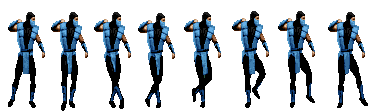
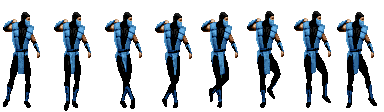
toutes les anims

diff --git a/main1.js b/main1.js
@@ -1,0 +1,210 @@
+let canvas = document.querySelector('canvas');
+let ctx = canvas.getContext('2d');
+
+ctx.imageSmoothingEnabled = false;
+
+let subHurt = new Image();
+subHurt.src = "/src/SubZero/Sub_hurt.png"
+
+let subIdle = new Image();
+subIdle.src = "/src/SubZero/Sub_idle.png";
+
+let subKameha = new Image();
+subKameha.src = "/src/SubZero/Sub_Kameha.png"
+
+let subKick = new Image();
+subKick.src = "/src/SubZero/Sub_kick.png"
+
+let subOneTwo = new Image();
+subOneTwo.src = "/src/SubZero/Sub_OneTwo.png"
+
+let subRun = new Image();
+subRun.src = "/src/SubZero/Sub_Run.png"
+
+let subWalking = new Image();
+subWalking.src = "/src/SubZero/Sub_Walk.png"
+
+
+subHurt.onload = function() {
+  init();
+};
+
+subIdle.onload = function() {
+  init();
+};
+
+subKameha.onload = function() {
+  init();
+};
+
+
+subKick.onload = function() {
+  init();
+};
+
+subOneTwo.onload = function() {
+  init();
+};
+
+subRun.onload = function() {
+  init();
+};
+
+subWalking.onload = function() {
+  init();
+};
+
+const scale = 2;
+const hauteur = 112;
+const scaledHeight = scale * hauteur;
+
+const subHurtLoop = [0,1,2,3,4];
+const subIdleLoop = [0,1,2,3,4,5,6,7];
+const subKamehaLoop = Array.from(Array(13).keys())
+const subKickLoop = [0,1,2,3,4];
+const subOneTwoLoop = [0,1,2,3,4,5];
+const subRunLoop = [0,1,2,3,4,5];
+const subWalkingLoop = [0,1,2,3,4,5,6,7];
+
+let currentLoopIndex = 0;
+let frameCount = 0;
+
+function drawFrame(img, largeur, frameX, frameY,canvasX,canvasY){
+    ctx.drawImage(img, frameX * largeur, frameY * hauteur, largeur, hauteur, canvasX, canvasY, scale * largeur, scaledHeight);
+}
+
+function hurtSubzero(){
+  frameCount++;
+  if (frameCount < 120) {
+    window.requestAnimationFrame(hurtSubzero);
+    return;
+  }
+  frameCount = 0;
+  
+  ctx.clearRect(0, 0, canvas.width, canvas.height);
+  drawFrame( subHurt, 96, subHurtLoop[currentLoopIndex], 0, 0, 0);
+
+  currentLoopIndex ++;
+  if (currentLoopIndex >= subHurtLoop.length) {
+    currentLoopIndex = 0;
+  }
+  window.requestAnimationFrame(hurtSubzero);
+}
+
+function idleSubzero(){
+  frameCount++;
+  if (frameCount < 120) {
+    window.requestAnimationFrame(idleSubzero);
+    return;
+  }
+  frameCount = 0;
+  
+  ctx.clearRect(0, 0, canvas.width, canvas.height);
+  drawFrame( subIdle, 48, subIdleLoop[currentLoopIndex], 0, 0, 0);
+
+  currentLoopIndex ++;
+  if (currentLoopIndex >= subIdleLoop.length) {
+    currentLoopIndex = 0;
+  }
+  window.requestAnimationFrame(idleSubzero);
+} 
+
+function kamehaSubzero(){
+  frameCount++;
+  if (frameCount < 30) {
+    window.requestAnimationFrame(kamehaSubzero);
+    return;
+  }
+  frameCount = 0;
+  
+  ctx.clearRect(0, 0, canvas.width, canvas.height);
+  drawFrame( subKameha, 112, subKamehaLoop[currentLoopIndex], 0, 0, 0);
+
+  currentLoopIndex ++;
+  if (currentLoopIndex >= subKamehaLoop.length) {
+    currentLoopIndex = 0;
+  }
+  window.requestAnimationFrame(kamehaSubzero);
+} 
+
+function kickSubzero(){
+  frameCount++;
+  if (frameCount < 30) {
+    window.requestAnimationFrame(kickSubzero);
+    return;
+  }
+  frameCount = 0;
+  
+  ctx.clearRect(0, 0, canvas.width, canvas.height);
+  drawFrame(subKick, 80,subKickLoop[currentLoopIndex], 0, 0, 0);
+
+  currentLoopIndex ++;
+  if (currentLoopIndex >= subKickLoop.length) {
+    currentLoopIndex = 0;
+  }
+  window.requestAnimationFrame(kickSubzero);
+
+}
+function oneTwoSubzero(){
+     frameCount++;
+     if (frameCount < 30) {
+       window.requestAnimationFrame(oneTwoSubzero);
+       return;
+     }
+     frameCount = 0;
+     
+     ctx.clearRect(0, 0, canvas.width, canvas.height);
+     drawFrame(subOneTwo, 64,subOneTwoLoop[currentLoopIndex], 0, 0, 0);
+   
+     currentLoopIndex ++;
+     if (currentLoopIndex >= subOneTwoLoop.length) {
+       currentLoopIndex = 0;
+     }
+     window.requestAnimationFrame(oneTwoSubzero);
+   
+   }
+
+function runSubzero(){
+  frameCount++;
+  if (frameCount < 60) {
+    window.requestAnimationFrame(runSubzero);
+    return;
+  }
+  frameCount = 0;
+  
+  ctx.clearRect(0, 0, canvas.width, canvas.height);
+  drawFrame(subRun, 48,subRunLoop[currentLoopIndex], 0, 0, 0);
+
+  currentLoopIndex ++;
+  if (currentLoopIndex >= subRunLoop.length) {
+    currentLoopIndex = 0;
+  }
+  window.requestAnimationFrame(runSubzero);
+
+}
+
+function walkSubzero(){
+  frameCount++;
+  if (frameCount < 120) {
+    window.requestAnimationFrame(walkSubzero);
+    return;
+  }
+  frameCount = 0;
+  
+  ctx.clearRect(0, 0, canvas.width, canvas.height);
+  drawFrame(subWalking, 48,subWalkingLoop[currentLoopIndex], 0, 0, 0);
+
+  currentLoopIndex ++;
+  if (currentLoopIndex >= subWalkingLoop.length) {
+    currentLoopIndex = 0;
+  }
+  window.requestAnimationFrame(walkSubzero);
+
+}
+
+
+
+function init() {
+  //drawFrame(0, 0, 0, 0);
+  window.requestAnimationFrame(hurtSubzero);
+}

diff --git a/main.js b/main.js
@@ -171,6 +171,25 @@ function kickKano(){
 
 }
 
+function oneTwoKano(){
+  frameCount++;
+  if (frameCount < 60) {
+    window.requestAnimationFrame(oneTwoKano);
+    return;
+  }
+  frameCount = 0;
+  
+  ctx.clearRect(0, 0, canvas.width, canvas.height);
+  drawFrame(kanoOneTwo, 64,kanoOneTwoLoop[currentLoopIndex], 0, 0, 0);
+
+  currentLoopIndex ++;
+  if (currentLoopIndex >= kanoOneTwoLoop.length) {
+    currentLoopIndex = 0;
+  }
+  window.requestAnimationFrame(oneTwoKano);
+
+}
+
 function runKano(){
   frameCount++;
   if (frameCount < 120) {
@@ -213,5 +232,5 @@ function walkKano(){
 
 function init() {
   //drawFrame(0, 0, 0, 0);
-  window.requestAnimationFrame(walkKano);
+  window.requestAnimationFrame(oneTwoKano);
 }
